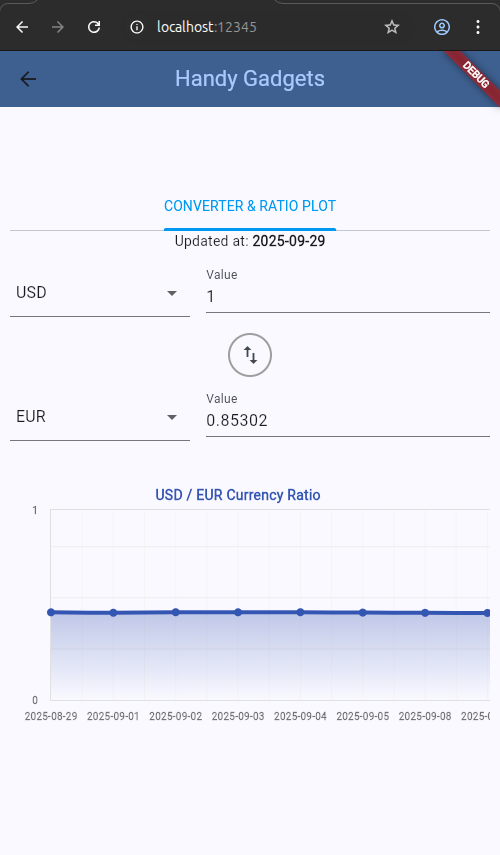
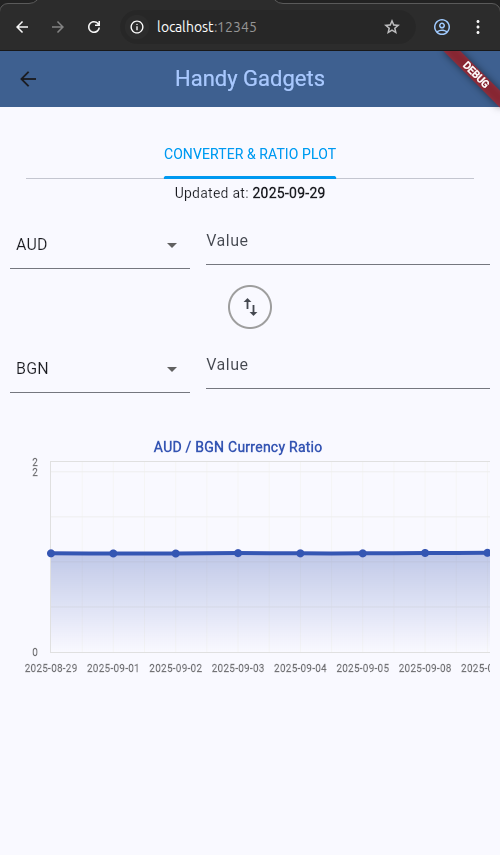
fix(currency_converter): fix title gap and its docs img

diff --git a/lib/features/currency_converter/page.dart b/lib/features/currency_converter/page.dart
@@ -22,7 +22,7 @@ class _CurrencyConverterPageState extends State<CurrencyConverterPage> {
       child: Scaffold(
         appBar: AppBar(
           automaticallyImplyLeading: false,
-          bottom: TabBar(
+          title: TabBar(
             indicatorColor: Colors.blue,
             labelColor: Colors.blue,
             unselectedLabelColor: Colors.grey,
